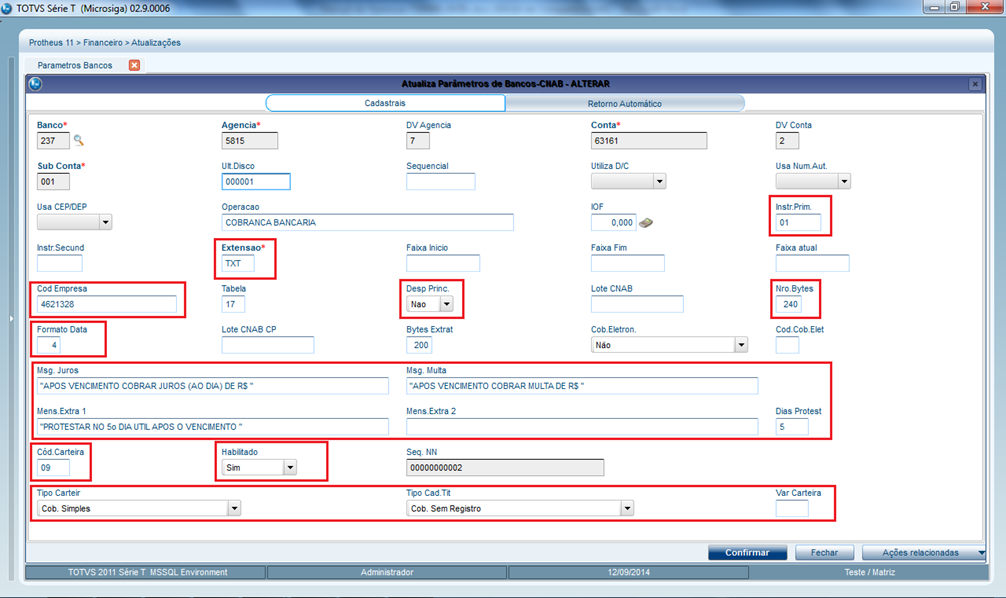
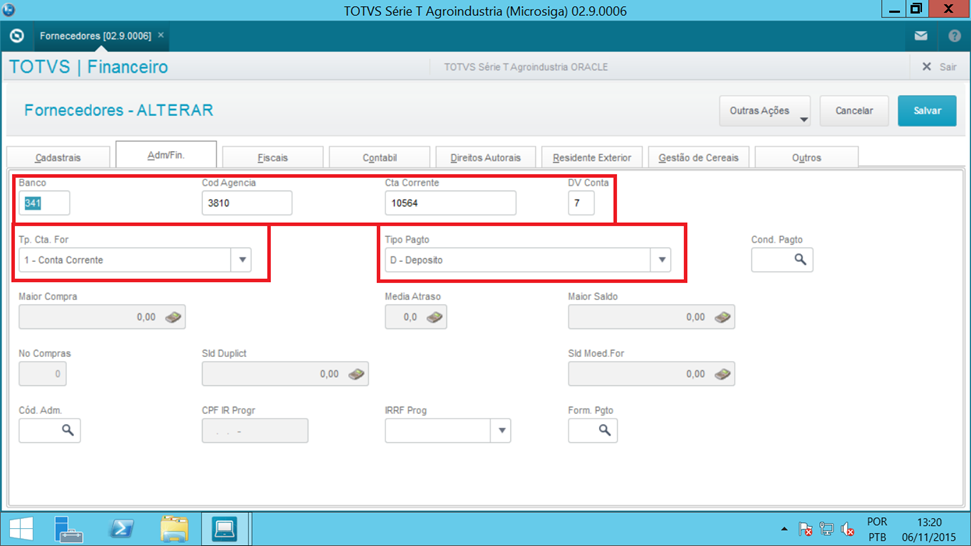
Finalizando CNAB A PAGAR

diff --git a/docs/addon-cnab-a-pagar.md b/docs/addon-cnab-a-pagar.md
@@ -2062,15 +2062,13 @@ Informe 'S' se o titular de recebimento do titulo (Fornecedor) é uma filial, ou
 
 ### 12. Manual de operação
 
-#### 1. Cadastros
+#### 1. Parâmetros de Bancos
 
-Neste cadastro são definidos detalhes técnicos que posteriormente serão utilizados para formatação e emissão do arquivo de remessa ao banco.
+Neste cadastro são definidos detalhes técnicos que posteriormente serão utilizados para formatação e emissão do arquivo de remessa ao banco. 
 
-Seu correto preenchimento é de suma importância, abaixo os principais campos que devem ser observados.
+Seu correto preenchimento é de suma importância, abaixo os principais campos que devem ser observados. 
 
-![](./assets/cnabapagar/01.png)
-
-<strong>SUB CONTA</strong>: Por convenção a Totvs Cascavel utiliza a Sub Conta = PAG para CNAB a Pagar.
+<strong>SUB CONTA</strong>: Por convenção a Totvs Cascavel utiliza a Sub Conta = PAG para CNAB a Pagar. 
 
 <strong>EXTENSÃO</strong>: é a extensão que será gerado o arquivo de remessa. Consultar manual técnico de cada banco.
 
@@ -2078,26 +2076,248 @@ Seu correto preenchimento é de suma importância, abaixo os principais campos q
 
 <strong>NR. BYTES</strong>: informe a quantidade de posições da remessa/retorno layout: 240/400/500 de acordo com cada banco.
 
-<strong>FORMATO DATA</strong>: informar o tipo da data que o banco trabalha no arquivo de retorno. Consultar manual técnico de cada banco.
-
-Formato da data no retorno:
-
+<strong>FORMATO DATA</strong>: informar o tipo da data que o banco trabalha no arquivo de retorno. Consultar manual técnico de cada banco. <br>
+Formato da data no retorno:<br>
 1-ddmmaa, 2=mmddaa, 3=aammdd, 4=ddmmaaaa,5=aaaammdd,6=mmddaaaa.
 
-<strong>DIR. REMESSA</strong>: informe o caminho (diretório) onde serão gerados os arquivos de remessa. Exemplo: D:\CNAB\REMESSA\BANCO\.
+<strong>DIR. REMESSA</strong>:informe o caminho (diretório) onde serão gerados os arquivos de remessa. Exemplo: D:\CNAB\REMESSA\BANCO\. <br>
+Na hipótese de ser um caminho na rede, o mesmo deverá estar mapeado na unidade local. <br>
+Este caminho será automaticamente sugerido na rotina de geração de remessa. <br>
 
-Na hipótese de ser um caminho na rede, o mesmo deverá estar mapeado na unidade local.
+<strong>CONF. REMESSA</strong>: informe o nome do arquivo de configuração de remessa. <br>
+Exemplo: banco240.2PE
 
-Este caminho será automaticamente sugerido na rotina de geração de remessa.
+<strong>CONF. RETORNO</strong>: informe o nome do arquivo de configuração de retorno. <br>
+Exemplo: banco240.2PR
 
-<strong>CONF. REMESSA</strong>: informe o nome do arquivo de configuração de remessa. Exemplo: banco240.2PE
+#### 1.2. Ocorrências CNAB
 
-<strong>CONF. RETORNO</strong>: informe o nome do arquivo de configuração de retorno. Exemplo: banco240.2PR
+O cadastro de ocorrências define os registros dos códigos atribuídos pelos próprios bancos a fim de identificar os resultados da leitura dos arquivos.
+
+Devem ser cadastradas de acordo com o manual de cada banco. 
+
+Anexo ao pacote FS99999_003B existe uma tabela pré-cadastrada (seb003b.dtc) que poderá auxiliar no cadastramento. De qualquer forma, é importante a revisão das ocorrências de acordo com o manual de cada banco. 
 
 
+#### 1.3. Cadastros de Fornecedores
+
+No cadastro de fornecedores, atentar para o preenchimento correto dos campos:
+
+![](./assets/cnabapagar/01.png){.flow-image}
+
+<strong>BANCO</strong>: informe o código do Banco.
+
+<strong>COD.AGENCIA</strong>: informe o código da Agência.
+
+<strong>CTA.CORRENTE</strong>: informe o número da conta, sem o dígito verificador.
+
+<strong>DV CONTA</strong>: informe o dígito verificador da conta.
+
+<strong>TP.CTA.FOR</strong>: informe o tipo de conta, Corrente ou Poupança.
+
+<strong>TIPO PAGTO</strong>: informe o tipo de pagamento padrão para este fornecedor. <br>
+Esta opção será sugerida durante a inclusão de Documentos de Entrada. 
+
+<u>Depósito</u>: Utilizar para as formas de pagamento: Depósito Bancário, TED, DOC. <br>
+O modelo será classificado automaticamente na inclusão de um título a pagar ou nota fiscal de entrada. 
+
+<strong><u>PARÂMETROS ENVOLVIDOS:</u></strong>
+
+<table class="banks-table">
+  <thead>
+    <tr>
+      <th>Nome</th>
+      <th>Tipo</th>
+      <th>Descrição</th>
+      <th>Conteúdo</th>
+    </tr>
+  </thead>
+  <tbody>
+    <tr>
+      <td><strong>MV_X003B01</strong></td>
+      <td>Numérico</td>      
+      <td>Valor mínimo para geração de TED.</td>  
+      <td>500</td>  
+    </tr>
+    <tr>
+      <td><strong>MV_X003B02</strong></td>
+      <td>Numérico</td>  
+      <td>Valor máximo para geração de DOC.</td>  
+      <td>4999.99</td>      
+    </tr>
+    <tr>
+      <td><strong>MV_X003B03</strong></td>
+      <td>Caracter</td>  
+      <td>Data para pagamento efetivo do Titulo.<br>
+        1=Data do Vencimento Real (E2_VENCREA)<br>
+        2=Data da Emissão do Borderô (EA_DATABOR)<br>
+        3=Data da geração do Arquivo (DDATABASE)
+      </td>  
+      <td>1</td>      
+    </tr>        
+  </tbody>
+</table>
+
+#### 2. Inclusão Contas a Pagar - Manual
+
+#### 2.1. Pagamento via (DOC/TED/Depósito)
+
+Durante a inclusão de um título a Pagar de forma Manual (FINA050), ao selecionar o Fornecedor, será sugerido automaticamente os dados bancários cadastrados no Fornecedor.
+
+![](./assets/cnabapagar/02.png){.flow-image}
+
+#### 2.2. Pagamento via Boleto Bancário
+
+Durante a inclusão de um título a Pagar de forma Manual (FINA050), deve-se atentar para o preenchimento do campo referente ao código de barras ou linha digitável. 
+
+Para utilização de Leitor de Código de Barras, atentar para sua configuração, pois o leitor pode ser configurado para retornar o código de barras efetivo (44 caracteres) ou a linha digitável (47/48 caracteres). Portanto, dependendo da configuração do leitor de Código de Barras, deve-se verificar qual campo será preenchido. 
+
+Durante o preenchimento da Linha Digitável, o campo Código de Barras será preenchido automaticamente. 
 
 
+![](./assets/cnabapagar/03.png){.flow-image}
 
+#### 2.3 Alterando Dados do Pagamento
+
+Após a inclusão do título, se houver a necessidade de alteração nos dados para pagamento, (banco/agência/conta/código de barras), através da rotina Funções Contas a Pagar ou Contas a Pagar -> Ações Relacionadas -> Dados CNAB Pagar as alterações poderão ser realizadas. 
+
+<strong>PE003B02</strong> – Possibilidade de inclusão de novos campos para visualização e alteração.
+
+#### 3. Nota Fiscal de Entrada
+
+Durante a inclusão de uma Nota Fiscal de Entrada que possua títulos a pagar, será apresentada uma tela no qual o usuário poderá configurar/escolher de que forma se fará o pagamento ao Fornecedor, para cada uma das parcelas geradas.
+
+![](./assets/cnabapagar/04.png){.flow-image}
+
+Através da configuração do parâmetro <strong>MV_X003B04</strong> é possível determinar se os dados bancários (Banco/Agencia/Conta/DV/Tipo de Conta) poderão ser alterados neste momento. Importante frisar que somente estes títulos serão afetados, ou seja, esta informação não será replicada no cadastro do fornecedor. 
+
+Através da configuração do parâmetro <strong>MV_X003B05</strong> é possível tornar obrigatória a Tela e as informações do tipo de pagamento. 
+
+#### 4. Geração do Borderô a Pagar (FINA241)
+
+Após os títulos incluídos, e liberados (se utilizar o controle de alçadas), o próximo passo será a geração dos borderôs de pagamento. 
+
+É imprescindível a utilização da rotina <strong>FINA241</strong> – Borderô de Pagamentos Impostos. <br>
+(<span style="color:#FF6000"><u><strong>não utilizar a rotina FINA240</strong></u></span>), para que os impostos via retenção (se configurados para geração na baixa dos títulos), <u>sejam gerados no momento da inclusão do borderô</u>. Mesmo que sua configuração esteja para geração dos títulos na emissão, poderá ser utilizada a rotina FINA241 para emissão dos borderôs de pagamentos. 
+
+Em Funções Contas a Pagar utilizar:
+
+![](./assets/cnabapagar/05.png){.flow-image}
+
+![](./assets/cnabapagar/06.png){.flow-image}
+
+Para cada Modelo de Pagamento deverá ser gerado um borderô. 
+
+Informar o modelo e tipo de pagamento, o sistema fará automaticamente, o filtro, apresentando somente títulos classificados para a forma e modelo escolhidos. 
+
+Os modelos atendidos pelo ADD-ON CNAB a Pagar para cada Banco estão listados no Boletim Técnico <strong>FS99999_003B</strong>. 
+
+De forma genérica são eles:
+
+<table class="banks-table">
+  <thead>
+    <tr>
+      <th>Segmento</th>
+    </tr>
+  </thead>
+  <tbody>
+    <tr>
+      <td><strong>Segmento A</strong><br>
+      - <strong>01</strong> Crédito em Conta Corrrente<br>
+      - <strong>05</strong> Crédito em Conta Poupança<br>
+      - <strong>10</strong> Ordem de Pagamento, sem aviso ao favorecido.
+      </td>
+    </tr>
+    <tr>
+      <td><strong>Segmento B</strong><br>
+      - <strong>03</strong> DOC C<br>
+      - <strong>41</strong> TED     
+      </td>
+    </tr>
+    <tr>
+      <td><strong>Segmento J</strong><br>
+      - <strong>30</strong> Boletos em cobrança / no próprio banco<br>
+      - <strong>31</strong> Boletos em cobrança / outro banco      
+      </td>
+    </tr>
+    <tr>
+      <td><strong>Segmento O</strong><br>
+      - <strong>13</strong> Pagamento de concessionárias (Água/Luz/Telefone)
+      </td>
+    </tr>     
+  </tbody>
+</table>
+
+!!!warning "IMPORTANTE – Este pacote não contempla:"
+    a) Segmento N: Pagamento de Tributos (DARF, GPS, DARJ, IPVA, IPTU, DPVAT, GR, etc).<br>
+    b) Pagamento de títulos em outra moeda diferente de R$.<br>
+    c) DDA - Débito Direto Autorizado<br>
+    d) Segmento J-52: Pagamento de Boletos com código de Barras e valor superior a R$ 250.000,00<br>
+    e) Exclusão de títulos enviados anteriormente
+
+#### 5. Geração do Arquivo Remessa
+
+Com os borderôs já incluídos, basta efetuar a geração do arquivo de remessa. 
+
+Ao selecionar o Código do Banco nos parâmetros, o sistema fará o preenchimento dos demais campos, de acordo com o cadastro de Parâmetros de Bancos. 
+
+![](./assets/cnabapagar/07.png){.flow-image}
+
+Atentar para o correto preenchimento do parâmetro Arq. de Saida ?
+
+<strong><u>Nomenclatura arquivo de cobrança:</u></strong>
+
+A nomenclatura é sugerida automaticamente, de acordo com manual de configuração dos bancos. 
+Para bancos onde não constam informações a este respeito, o padrão adotado pela Totvs/Cascavel será:
+
+<table class="banks-table">
+  <thead>
+    <tr>
+      <th>Banco</th>
+      <th>Arquivo de Saída</th>
+      <th>Exemplo</th>
+    </tr>
+  </thead>
+  <tbody>
+    <tr>
+      <td><strong>104 - CAIXA ECONÔMICA FEDERAL</strong></td>
+      <td><strong>ACC.AAAAAA.SIACC2.CEF</strong><br>
+        <strong>AAC</strong> – é fixo e identifica o sistema que irá processar o arquivo<br>
+        <strong>AAAAAA</strong> – deve ser preenchido com o apelido do contratante na VAN.<br>
+        <strong>SIACC2</strong> – é fixo e identifica que está sendo enviado um arquivo no padrão 240 da FEBRABAN.<br>
+        <strong>??</strong> - variáveis alfanuméricas/Númericas<br>
+        <strong>.Rem</strong> – Extensão do arquivo
+        Ex.: 01, AB, A1 etc.<br></td>
+      <td>-</td>
+    </tr>
+    <tr>
+      <td><strong>237 - BRADESCO</strong></td>
+      <td><strong>PGDDMMX.REM </strong><br>
+        <strong>PG</strong> = Fixo <br>
+        <strong>DD</strong> = Dia da geração do arquivo<br>
+        <strong>MM</strong> = Mês da geração do arquivo<br>
+        <strong>X</strong> = Sequencial<br>
+        </td>
+      <td>Exemplo: <strong>PG250601.REM</strong></td>
+    </tr>
+    <tr>
+      <td><strong>756 - SICREDI</strong></td>
+      <td><strong>CCCDDMMSS.CRM </strong> (para envio do primeiro arquivo de remessa do dia) <br>
+        <strong>CCC</strong> = Código beneficiário<br>
+        <strong>DD</strong> = Dia da geração do arquivo<br>
+        <strong>MM</strong> = Mês da geração do arquivo<br>
+        <strong>SS</strong> = Sequência do arquivo. Caso, a empresa conveniada envia mais de um arquivo remessa ao dia essa posição deverá vir preenchida com a quantidade de arquivos já enviados naquela data.<br>
+        </td>
+      <td>-</td>
+    </tr>    
+  </tbody>
+</table>
+
+Após a geração do arquivo de remessa, basta via Internet Bankingde cada Banco, transmitir o arquivo para pagamento. 
+
+ATENÇÃO aos prazos de envio, que variam de Banco para Banco. 
+
+!!!warning "ATENÇÃO aos prazos de envio, que variam de Banco para Banco."
 
 </div>
 </details>
